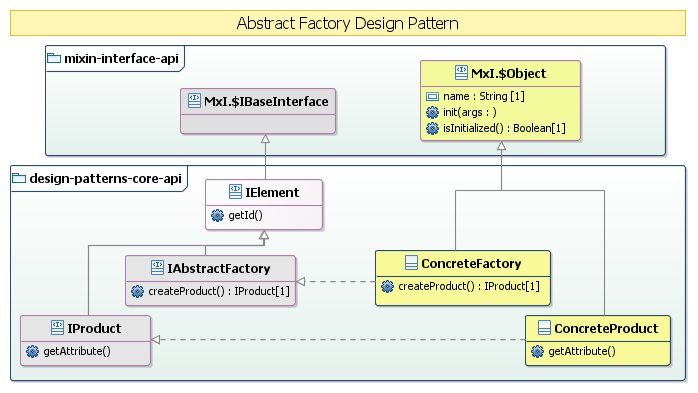
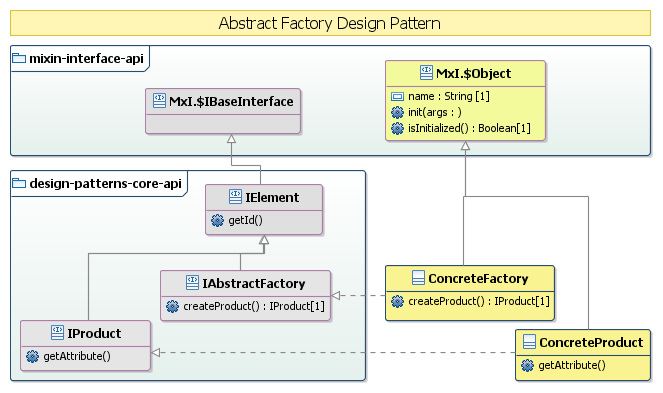
0.1.14

diff --git a/README.md b/README.md
@@ -10,8 +10,8 @@ Implementation of the 23 original ("Gang Of Four") [_Design Patterns_](https://e
 * **Craft a proposal for each pattern:** there are many references about _Design Patterns_. My proposals should be not be taken as reference but more as an ongoing work (for which your feedback is welcome). Thus I advise you to study by yourself the references (I have gathered some of them in the _References_ paragraph) to check it they fits your learning curve and your own design issues.
 * **Resolve name conflicts across patterns:** in the references, it happens that participant names (and operation names as well) are shared across patterns. In my proposals, I resolved these name conflicts either by mining in the references or by adding parent interface classes (e.g. _IElement_, _IAction, _ICoreComponent_...).
 
-### Changelog for Release 0.1.12
-* Documentation upgrade: UML class diagram for the 'Abstract Factory' pattern 
+### Changelog for Release 0.1.14
+* Documentation upgrade: enhancemeny in UML class diagram for 'Abstract Factory' pattern 
 
 ### Roadmap
 * UML class diagrams and implementation sample for each pattern
